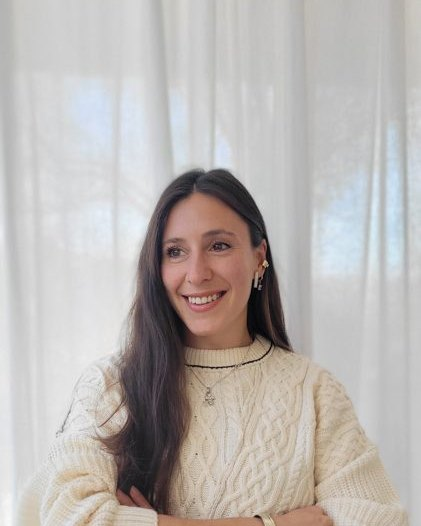
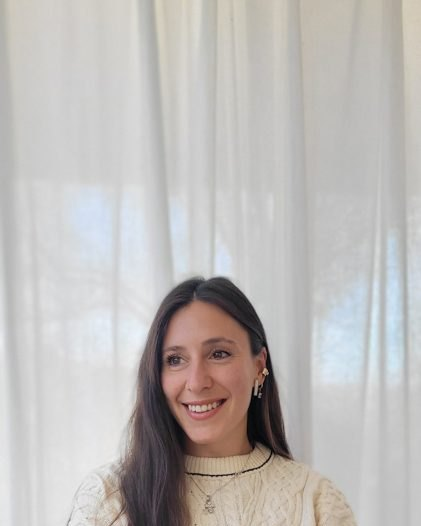
Portada: foto más alta y centrada, enlace al estudio en la trayectoria
Claude-Session: https://claude.ai/code/session_01Wm82TKBNRxZrja5rAVCQDN

diff --git a/css/styles.css b/css/styles.css
@@ -491,7 +491,6 @@ p { margin: 0; }
 
 /* Portada centrada en Micaela */
 .hero-rol { font-family: var(--f-display, "Jost", sans-serif); font-size: .9rem; letter-spacing: .14em; text-transform: uppercase; color: var(--tinta-suave); margin-bottom: .75rem; }
-.hero-media img[src*="equipo"] { aspect-ratio: 4 / 5; object-fit: cover; object-position: center top; height: auto; }
 .perfil-detalle .h-small { margin: 2.25rem 0 1rem; }
 .perfil-detalle .timeline { margin-bottom: 0; }
 
@@ -500,3 +499,12 @@ p { margin: 0; }
 .cursor-preview img { display: block; width: 280px; height: auto; aspect-ratio: 4 / 3; object-fit: cover; }
 .cp-cap { display: block; margin-top: 8px; font-size: .8rem; letter-spacing: .04em; color: var(--tinta-suave); }
 .cursor-preview { height: auto; min-height: 0; }
+
+/* Portada: la foto sube y la persona queda centrada con aire arriba */
+@media (min-width: 760px) {
+  .hero { align-items: start; padding-top: 110px; }
+  .hero-copy { padding-top: 6vh; }
+  .hero-media img { height: calc(100svh - 170px); width: auto; max-width: 100%; aspect-ratio: 4 / 5; object-fit: cover; object-position: 50% 15%; margin-left: auto; }
+}
+/* Enlace al estudio dentro de la trayectoria */
+.tl-lugar a { text-decoration: underline; text-underline-offset: 3px; color: inherit; }

diff --git a/index.html b/index.html
@@ -10,7 +10,7 @@
   <link rel="preconnect" href="https://fonts.googleapis.com">
   <link rel="preconnect" href="https://fonts.gstatic.com" crossorigin>
   <link href="https://fonts.googleapis.com/css2?family=Jost:wght@300;400;500&family=Newsreader:ital,opsz,wght@0,6..72,300;0,6..72,400;1,6..72,300;1,6..72,400&display=swap" rel="stylesheet">
-  <link rel="stylesheet" href="css/styles.css?v=3">
+  <link rel="stylesheet" href="css/styles.css?v=6">
 </head>
 <body>
 
@@ -40,7 +40,7 @@
       </a>
     </div>
     <figure class="hero-media reveal" data-reveal>
-      <img id="hero-img" src="assets/img/equipo/micaela-hero.jpg" alt="Micaela Budano, arquitecta" width="421" height="527">
+      <img id="hero-img" src="assets/img/equipo/micaela.jpg" alt="Micaela Budano, arquitecta" width="421" height="900">
     </figure>
   </section>
 
@@ -100,7 +100,7 @@
   <p>© <span id="anio"></span></p>
 </footer>
 
-<script src="js/projects.js?v=3"></script>
-<script src="js/main.js?v=3"></script>
+<script src="js/projects.js?v=4"></script>
+<script src="js/main.js?v=4"></script>
 </body>
 </html>

diff --git a/proyecto.html b/proyecto.html
@@ -8,7 +8,7 @@
   <link rel="preconnect" href="https://fonts.googleapis.com">
   <link rel="preconnect" href="https://fonts.gstatic.com" crossorigin>
   <link href="https://fonts.googleapis.com/css2?family=Jost:wght@300;400;500&family=Newsreader:ital,opsz,wght@0,6..72,300;0,6..72,400;1,6..72,300;1,6..72,400&display=swap" rel="stylesheet">
-  <link rel="stylesheet" href="css/styles.css?v=3">
+  <link rel="stylesheet" href="css/styles.css?v=6">
 </head>
 <body class="project-page">
 
@@ -31,7 +31,7 @@
   <p>© <span id="anio"></span></p>
 </footer>
 
-<script src="js/projects.js?v=3"></script>
-<script src="js/main.js?v=3"></script>
+<script src="js/projects.js?v=4"></script>
+<script src="js/main.js?v=4"></script>
 </body>
 </html>

diff --git a/js/main.js b/js/main.js
@@ -119,7 +119,9 @@
           el("span", { class: "tl-cargo", text: t.cargo }),
           el("span", { class: "tl-periodo", text: t.periodo })
         ]),
-        el("p", { class: "tl-lugar", text: t.lugar })
+        el("p", { class: "tl-lugar" }, [
+          t.link ? el("a", { href: t.link, target: "_blank", rel: "noopener", text: t.lugar }) : document.createTextNode(t.lugar)
+        ])
       ]));
     });
     var fl = $("lista-formacion");

diff --git a/js/projects.js b/js/projects.js
@@ -257,6 +257,7 @@ window.SITIO = {
       {
         "cargo": "Co-fundadora y arquitecta proyectista",
         "lugar": "is.ARCH · Estudio de arquitectura integral",
+          "link": "https://www.instagram.com/is.arch.arq/",
         "periodo": "2023 – Actualidad"
       },
       {
